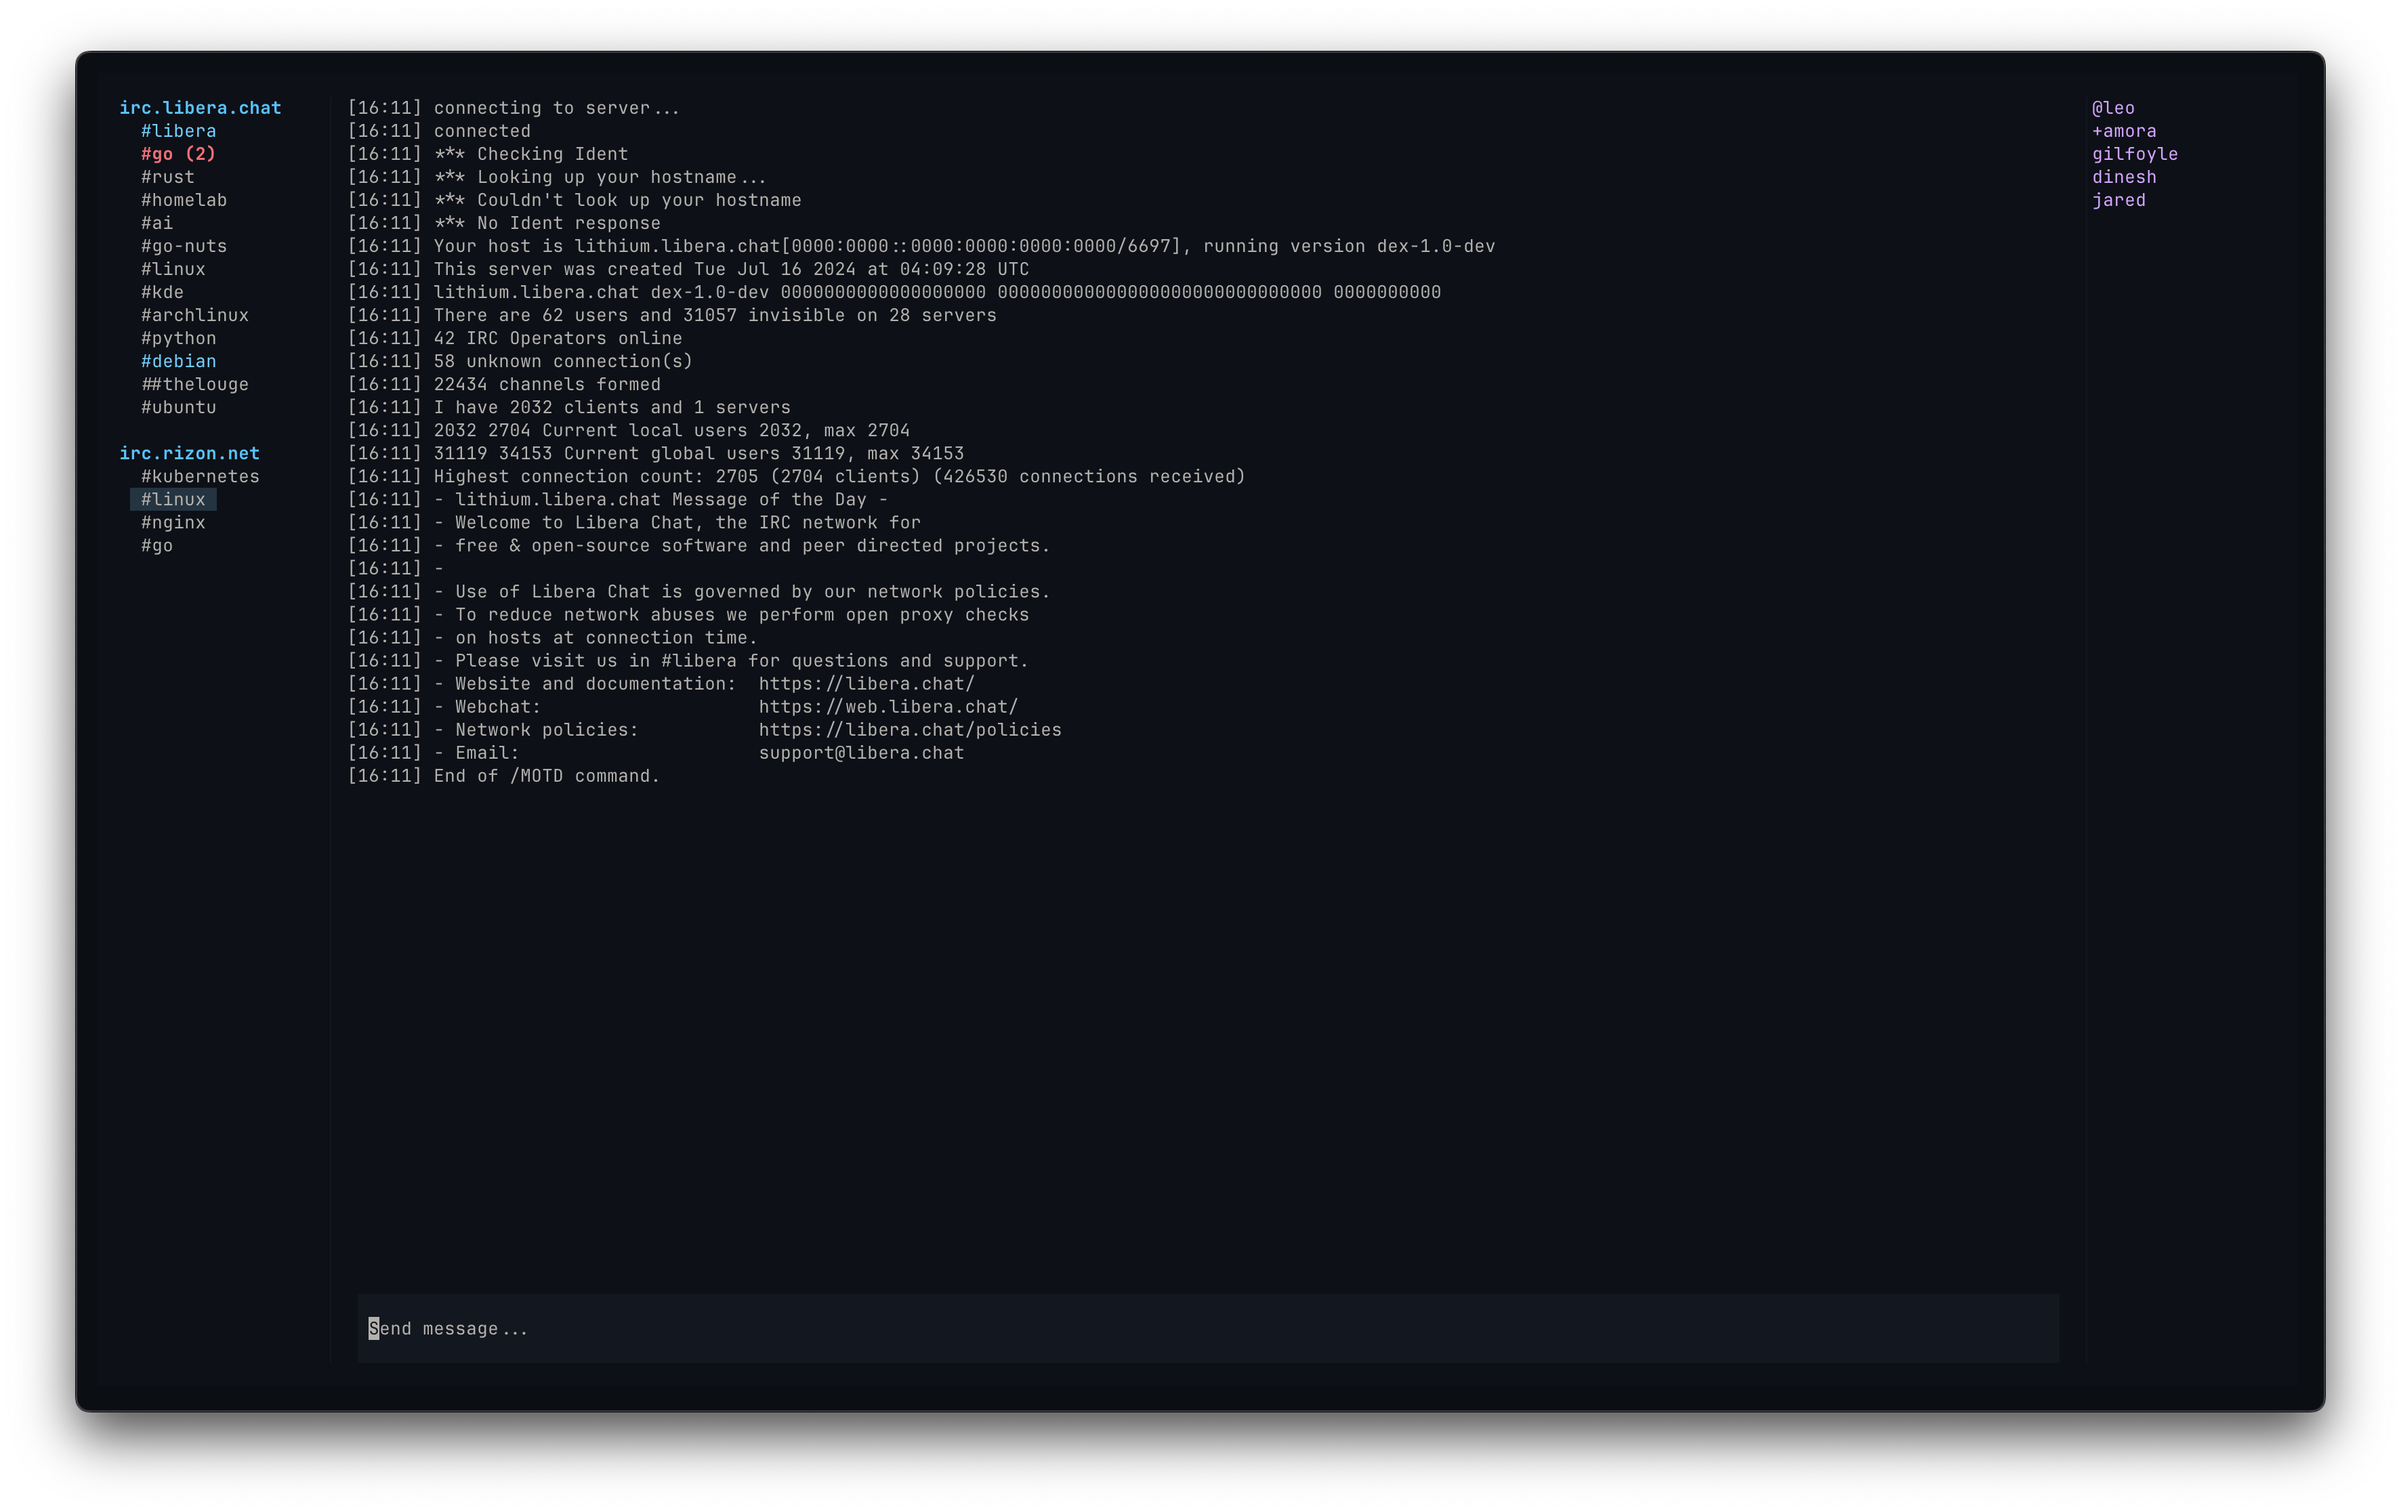
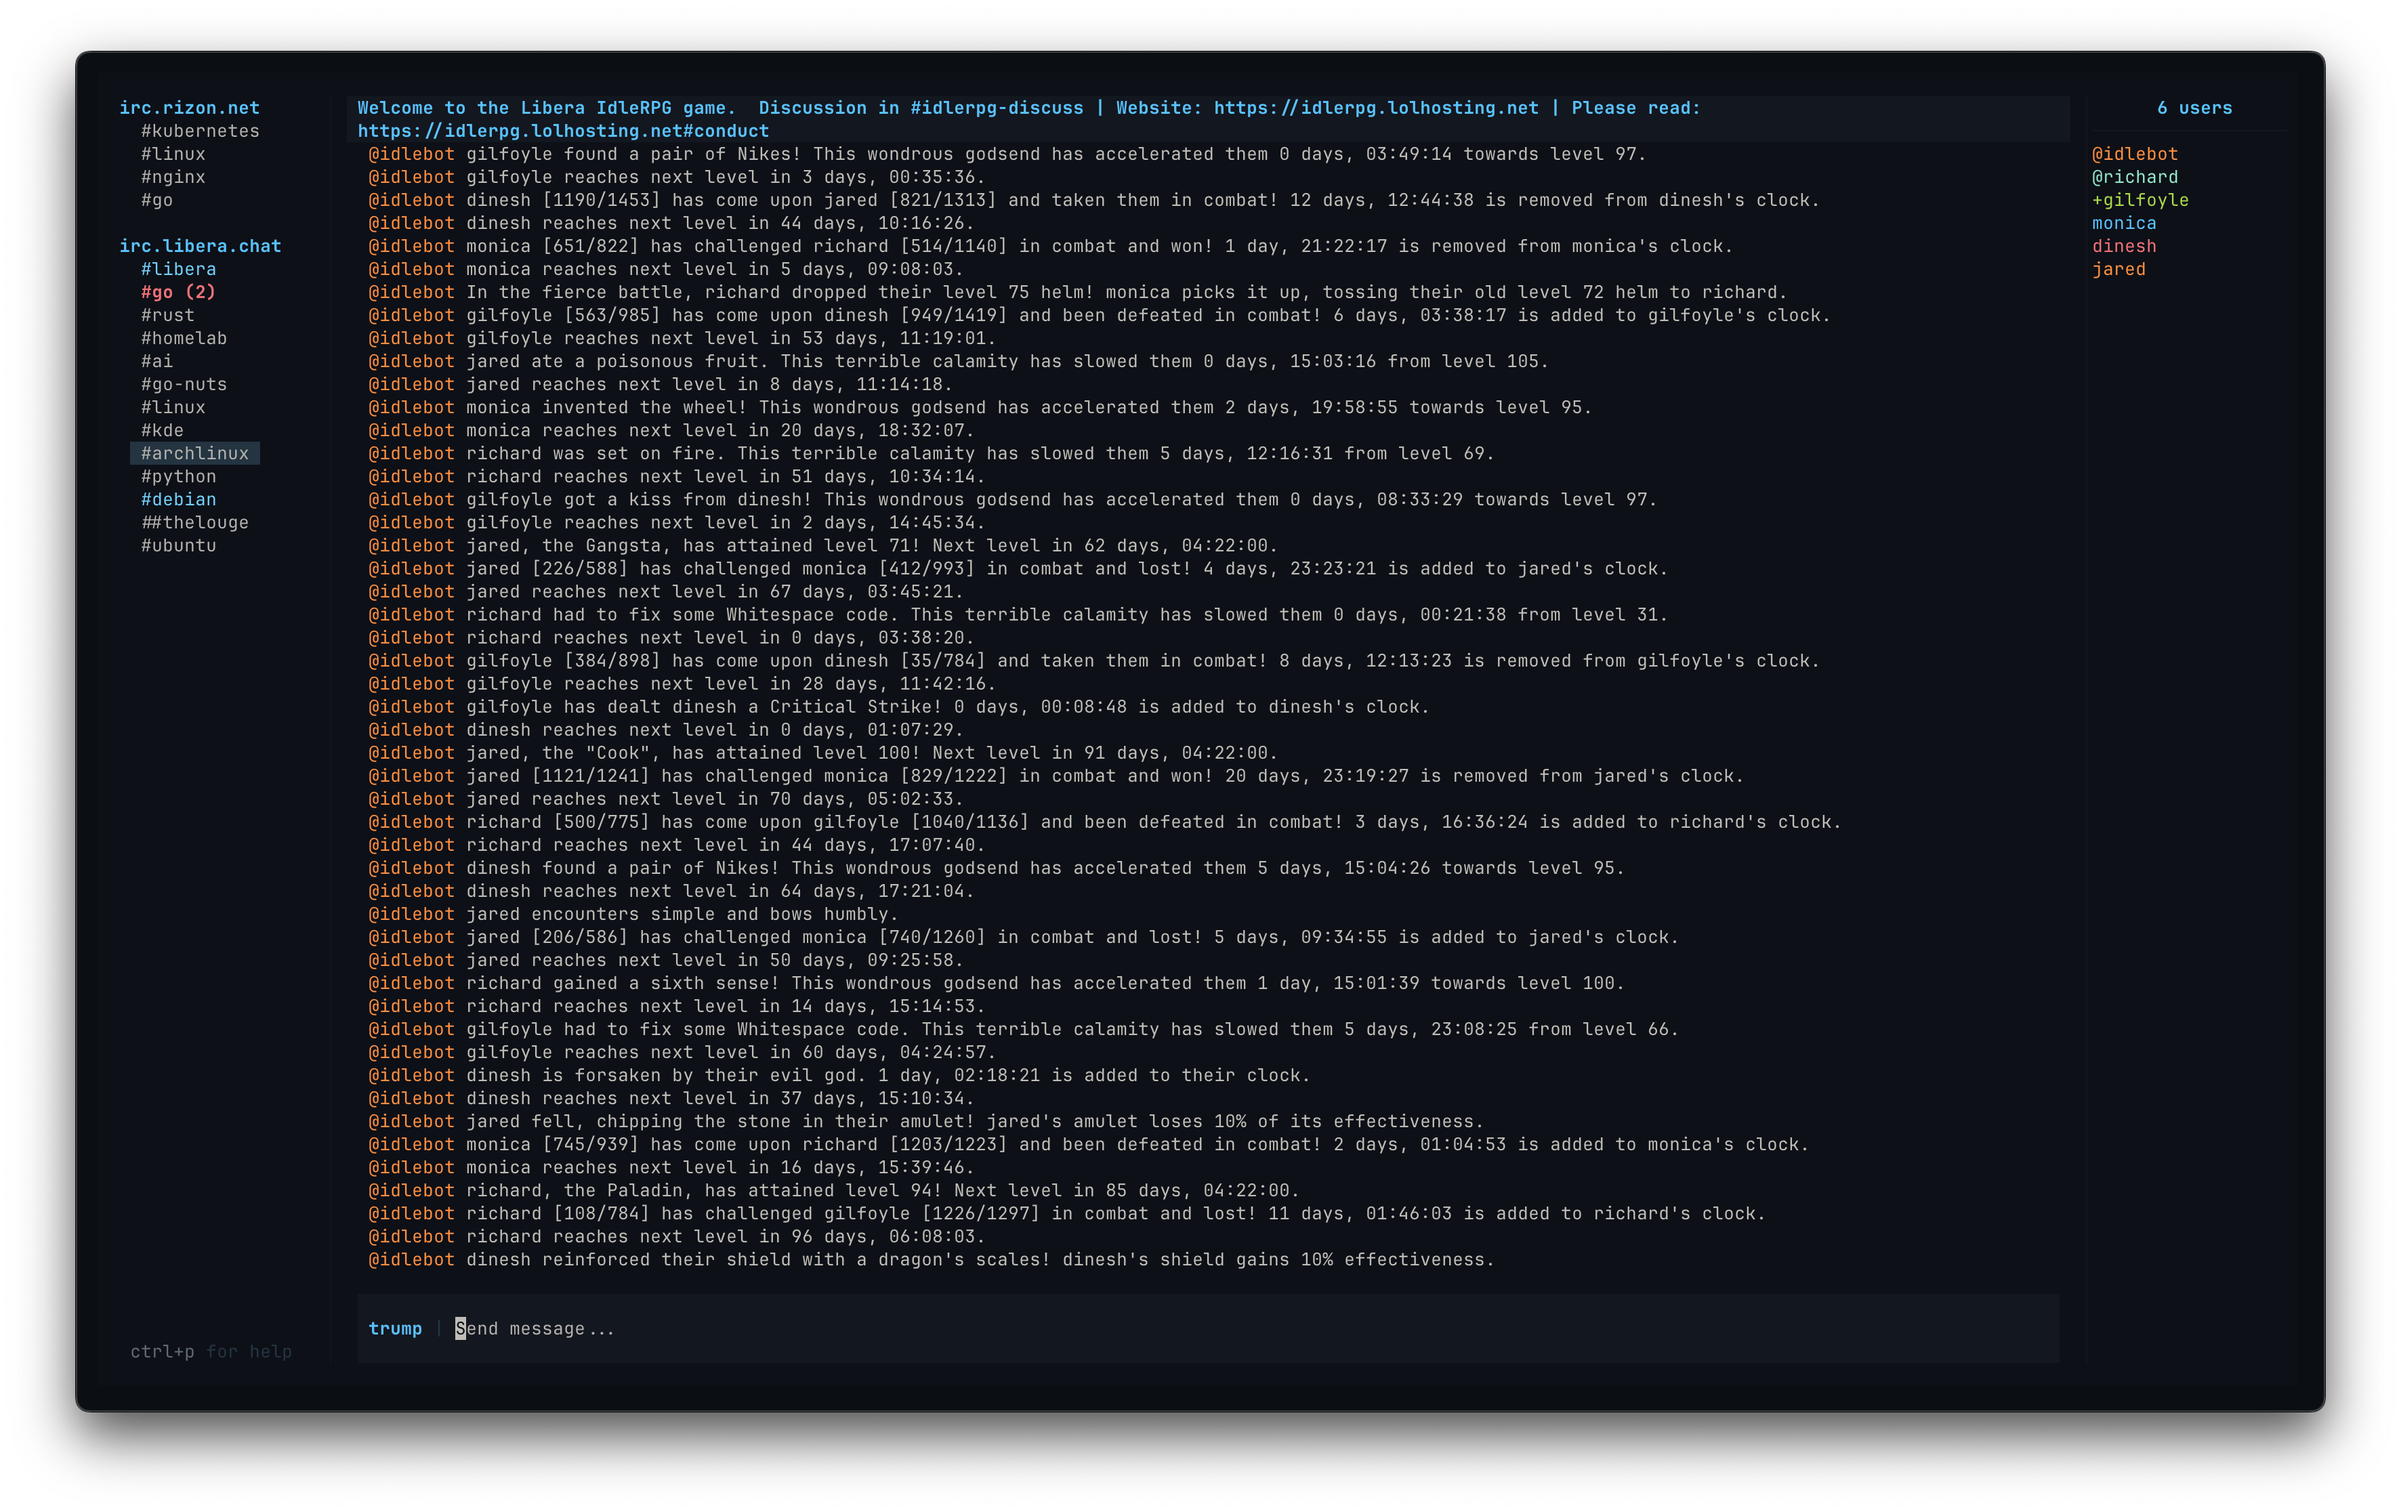
new preview

diff --git a/README.md b/README.md
@@ -1,3 +1,20 @@
 ## dex
 
 ![preview](./preview.png)
+
+
+## TODO
+* fix all paddings and borders to be consistent: add borders colors to them to check if they match the window
+* make sure the dynamic resizing works and no glitch with paddings/borders happen 
+* after above, centralize in layout package all paddings and borders numbers
+* centralize all styles in styles package
+
+
+## Features to implement
+* command palette with: quick jump, fuzzy channel search, join, leave, etc.
+* hability to open vim in input to edit the message being sent
+* spell checking in input
+* option to show only channels with unread messages
+* a new pane on top of channel list with: buffer for all your DMs and tagged messages
+* channel topic: config option to truncate to one line
+* config file where user can set: themes, servers, etc.
